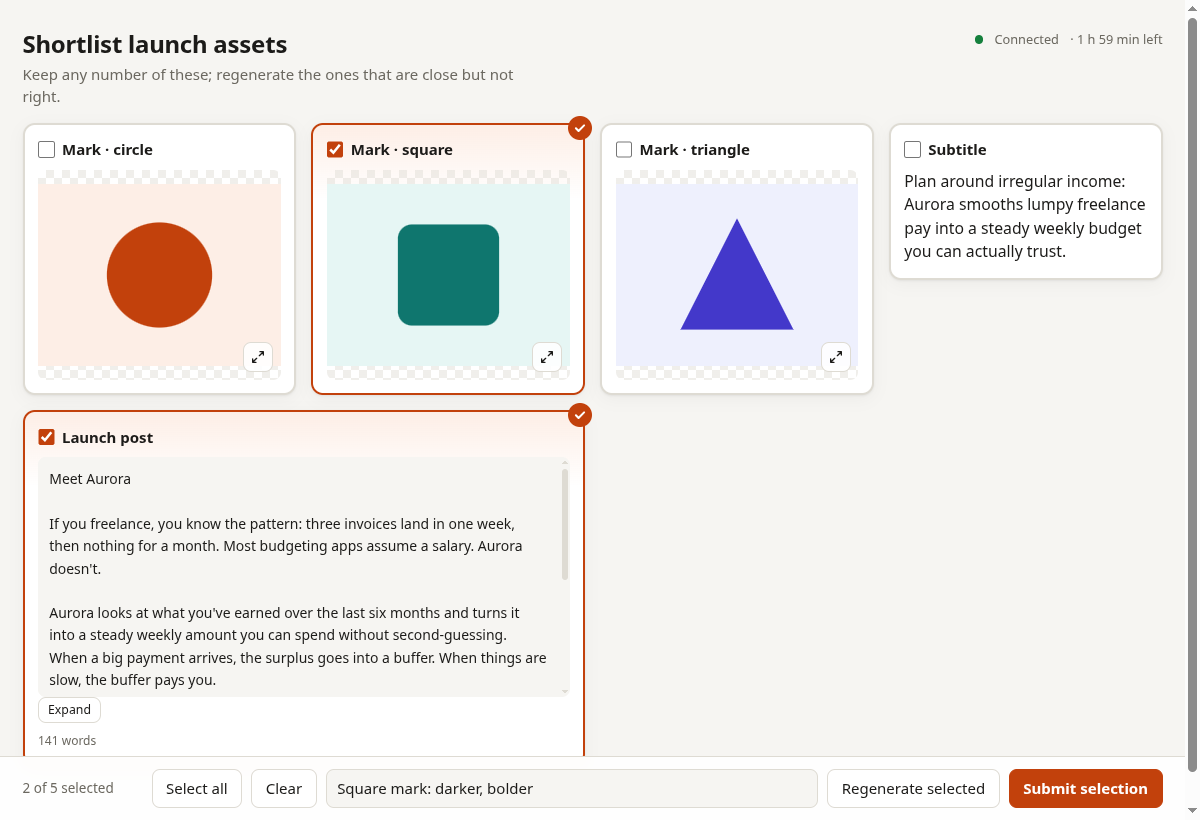
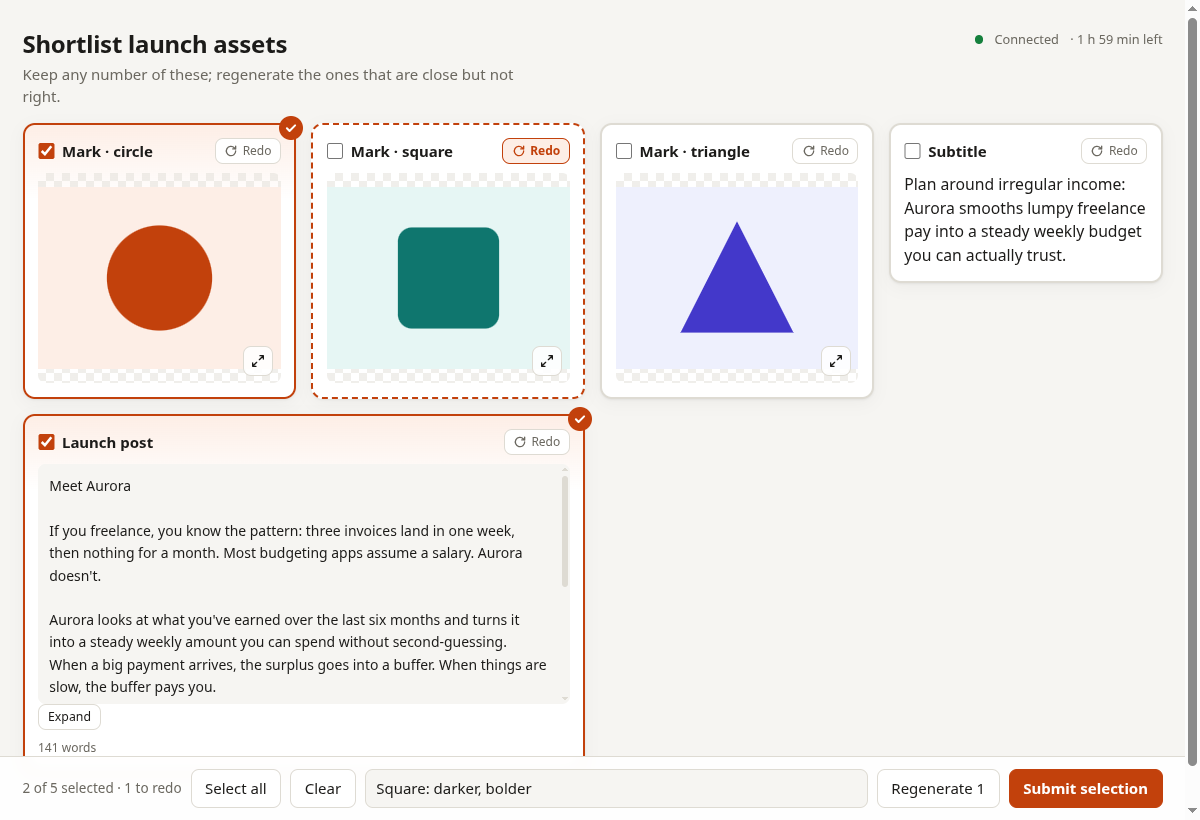
ui: per-card Redo toggle, separate from the winner tick
One set of ticks used to mean both "winner" (submit) and "redo this"
(regenerate). Each card now has its own Redo toggle; Regenerate sends only
those ids, and winners stay ticked through the round. UI-only: the event
schema and agent protocol are unchanged (chosen via decision-picker over a
redo_ids protocol change, which saved no round trip).

Also ignores the local .decisions.log.

diff --git a/skills/claude-select/scripts/ui.html b/skills/claude-select/scripts/ui.html
@@ -52,6 +52,9 @@
   .card label { display: flex; align-items: center; gap: .5rem; font-weight: 600; cursor: pointer; flex: 1; min-width: 0; }
   .card label span { overflow-wrap: anywhere; }
   .card input { accent-color: var(--accent); width: 1.1rem; height: 1.1rem; margin: 0; flex: none; }
+  .again { display: flex; align-items: center; gap: .3rem; padding: .2rem .55rem; font-size: .8rem; color: var(--muted); }
+  .again[aria-pressed="true"] { color: var(--accent); border-color: var(--accent); background: var(--accent-soft); font-weight: 600; }
+  .card.redo { border-style: dashed; border-color: var(--accent); }
   .badge { font-size: .72rem; color: var(--muted); border: 1px solid var(--line); border-radius: 99px; padding: 0 .45rem; }
   .check { position: absolute; top: -.6rem; right: -.6rem; width: 1.6rem; height: 1.6rem; border-radius: 50%;
            background: var(--accent); color: var(--on-accent); display: none; place-items: center; }
@@ -121,7 +124,7 @@
     <button id="clear" hidden>Clear</button>
     <input id="feedback" type="text" placeholder="Optional note for the agent"
            aria-label="Note for the agent: what to change, or why you picked it" maxlength="2000">
-    <button id="regen">Regenerate selected</button>
+    <button id="regen">Regenerate</button>
     <button id="submit" class="primary" title="Ctrl+Enter" aria-keyshortcuts="Control+Enter Meta+Enter">Submit selection</button>
   </div>
 </footer>
@@ -131,11 +134,13 @@
 const token = new URLSearchParams(location.search).get('t') || '';
 const $ = id => document.getElementById(id);
 let S = null;            // last session snapshot from the server
-let selected = new Set();
+let selected = new Set();  // winners, sent on submit
+let redo = new Set();      // marked for another version, sent on regenerate
 let sending = false;     // an event is in flight (possibly retrying)
 let online = true;
 let error = '';          // last refusal from the server, shown until the next send
 const ICON_CHECK = '<svg width="14" height="14" viewBox="0 0 24 24" stroke-width="3.5"><path d="M5 12.5l4.5 4.5L19 7.5"/></svg>';
+const ICON_REDO = '<svg width="14" height="14" viewBox="0 0 24 24" stroke-width="2.25"><path d="M20 12a8 8 0 1 1-2.35-5.65L20 8.5M20 3.5v5h-5"/></svg>';
 const ICON_ZOOM = '<svg width="16" height="16" viewBox="0 0 24 24" stroke-width="2"><path d="M15 4h5v5M9 20H4v-5M20 4l-6 6M4 20l6-6"/></svg>';
 
 async function api(path, body) {
@@ -150,7 +155,10 @@ async function api(path, body) {
 }
 
 const storeKey = () => 'claude-select:' + S.session_id;
-function saveSel() { localStorage.setItem(storeKey(), JSON.stringify([...selected])); }
+function saveSel() {
+  localStorage.setItem(storeKey(), JSON.stringify([...selected]));
+  localStorage.setItem(storeKey() + ':redo', JSON.stringify([...redo]));
+}
 
 function setOnline(ok) {
   online = ok;
@@ -176,9 +184,13 @@ function card(it, prevRev) {
   });
   const md = it.metadata || {};
   const title = label(it);
+  // Redo is its own toggle, so "keep this" and "make another version" never share one tick.
+  const again = el('button', { className: 'again', type: 'button', ariaLabel: `Redo ${title}`, ariaPressed: 'false',
+                               title: 'Ask the agent for a new version of this one', innerHTML: ICON_REDO + 'Redo' });
+  again.addEventListener('click', () => { redo.has(it.id) ? redo.delete(it.id) : redo.add(it.id); saveSel(); sync(); });
   const head = el('div', { className: 'head' },
     el('label', { htmlFor: input.id }, input, el('span', { textContent: title })),
-    it.revision > 1 ? el('span', { className: 'badge', textContent: 'v' + it.revision, title: 'Regenerated' }) : null);
+    it.revision > 1 ? el('span', { className: 'badge', textContent: 'v' + it.revision, title: 'Regenerated' }) : null, again);
 
   let body;
   if (it.type === 'image') {
@@ -222,9 +234,13 @@ function render(s) {
   const prev = S ? Object.fromEntries(S.items.map(i => [i.id, i.revision])) : {};
   const first = !S || S.session_id !== s.session_id;
   S = s;
-  if (first) selected = new Set(JSON.parse(localStorage.getItem(storeKey()) || '[]'));
+  if (first) {
+    selected = new Set(JSON.parse(localStorage.getItem(storeKey()) || '[]'));
+    redo = new Set(JSON.parse(localStorage.getItem(storeKey() + ':redo') || '[]'));
+  }
   const ids = new Set(s.items.map(i => i.id));
   selected = new Set([...selected].filter(id => ids.has(id)));
+  redo = new Set([...redo].filter(id => ids.has(id)));
   if (s.mode === 'single' && selected.size > 1) selected = new Set([...selected].slice(0, 1));
   document.title = s.title + ' · claude-select';
   $('title').textContent = s.title;
@@ -240,17 +256,21 @@ function sync() {
     c.classList.toggle('regen', pending.has(c.dataset.id));
     c.ariaBusy = String(pending.has(c.dataset.id));
     c.querySelector('input').checked = selected.has(c.dataset.id);
+    c.classList.toggle('redo', redo.has(c.dataset.id));
+    c.querySelector('.again').ariaPressed = String(redo.has(c.dataset.id));
   }
   const open = S.status === 'open' && !pending.size && !sending;
   const n = selected.size;
-  setText($('count'), S.mode === 'single'
+  setText($('count'), (S.mode === 'single'
     ? (n ? '1 selected' : 'Pick one option')
-    : `${n} of ${S.items.length} selected`);
+    : `${n} of ${S.items.length} selected`) + (redo.size ? ` · ${redo.size} to redo` : ''));
+  setText($('regen'), redo.size ? `Regenerate ${redo.size}` : 'Regenerate');
+  $('regen').title = redo.size ? '' : 'Mark cards with Redo first';
   $('submit').disabled = !open || (S.mode === 'single' && n !== 1);
-  $('regen').disabled = !open || !n;
+  $('regen').disabled = !open || !redo.size;
   $('all').disabled = !open || n === S.items.length;
   $('clear').disabled = !open || !n;
-  for (const i of document.querySelectorAll('.card input')) i.disabled = !open;
+  for (const i of document.querySelectorAll('.card input, .card .again')) i.disabled = !open;
   const r = S.remaining_s;
   const late = S.status === 'open' && r < 300;
   const picked = S.items.filter(i => selected.has(i.id)).map(label).join(', ');
@@ -269,7 +289,8 @@ function sync() {
 }
 
 async function send(action) {
-  const ev = { client_event_id: crypto.randomUUID(), action, selected_ids: [...selected],
+  const ev = { client_event_id: crypto.randomUUID(), action,
+               selected_ids: [...(action === 'regenerate' ? redo : selected)],
                feedback: $('feedback').value };
   sending = true; error = ''; sync();
   // Retry with the same client_event_id until the server answers; it drops duplicates.
@@ -278,7 +299,7 @@ async function send(action) {
       const r = await api('/api/event', ev);
       setOnline(true);
       S.status = r.status;
-      if (action === 'regenerate') S.pending = ev.selected_ids;
+      if (action === 'regenerate') { S.pending = ev.selected_ids; redo.clear(); saveSel(); }
       $('feedback').value = '';
       break;
     } catch (e) {

diff --git a/README.md b/README.md
@@ -12,14 +12,14 @@
 <picture>
   <source media="(prefers-color-scheme: dark)" srcset="docs/screenshot-dark.png">
   <source media="(prefers-color-scheme: light)" srcset="docs/screenshot-light.png">
-  <img alt="The selection page: three logo images, a subtitle and a long launch post as cards; the square logo and the post are ticked, with a feedback note and Regenerate selected / Submit selection buttons in the bottom bar." src="docs/screenshot-light.png">
+  <img alt="The selection page: three logo images, a subtitle and a long launch post as cards; the circle logo and the post are ticked as winners, the square logo is marked Redo, with a feedback note and Regenerate 1 / Submit selection buttons in the bottom bar." src="docs/screenshot-light.png">
 </picture>
 
 Ask an agent for four logo ideas or three draft intros and you usually get them
 pasted into the chat. Comparing images there is awkward, and saying which ones
 to redo is fiddly. claude-select gives the options a proper page on
-`localhost`. You tick one winner or several, add a note, and submit or send
-specific cards back for another try. The agent gets your choice back as
+`localhost`. You tick one winner or several, mark any card Redo to send it back for
+another try, add a note, and submit. The agent gets your choice back as
 structured JSON and carries on.
 
 ## Highlights
@@ -28,8 +28,9 @@ structured JSON and carries on.
   a full-size view, snippets up to 500 characters, and long drafts that scroll and expand.
 - **Single-winner or multi-winner** modes (radio or checkbox, 0..N), with
   Select all and Clear.
-- **Regenerate selected**: the agent receives each item's original prompt and
-  parameters, re-runs only those, and the cards update in place with a `v2` badge.
+- **Redo per card**, separate from your winners: the agent receives each marked
+  item's original prompt and parameters, re-runs only those, and the cards update
+  in place with a `v2` badge.
 - **Hard to break**: port fallback, retry after a dropped connection, empty-submit
   confirmation, session timeout, crash recovery, and the server shuts itself down when idle.
 - **Zero dependencies**: one Python file (standard library, ≥ 3.10) and one HTML
@@ -127,8 +128,8 @@ The agent generates the options, opens the page, and replies with one line:
 Options are ready: http://127.0.0.1:8765/?t=hks4JDNbYo1JQzrnoDZHXAvu
 ```
 
-Pick, optionally add a note, then click **Submit selection** or **Regenerate
-selected**. The agent is waiting in the background and continues on its own.
+Tick winners and click **Submit selection**, or mark cards **Redo** and click
+**Regenerate**. Either way you can add a note. The agent is waiting in the background and continues on its own.
 
 To try the page without an agent, drive it by hand:
 
@@ -202,7 +203,7 @@ Using [`examples/multi-mixed.json`](examples/multi-mixed.json): three SVG
 logos, a subtitle and a 141-word post.
 
 1. `P start examples/multi-mixed.json`, then `P poll`.
-2. Tick **Mark · square**, type *darker, bolder*, and click **Regenerate selected**.
+2. Click **Redo** on **Mark · square**, type *darker, bolder*, and click **Regenerate 1**.
    The card greys out with "Regenerating…" and every action locks.
 3. `poll` returns the original task for that card:
    ```json
@@ -213,7 +214,8 @@ logos, a subtitle and a 141-word post.
    ```
 4. The agent re-runs it and pushes the result under the **same id**:
    `P update examples/regenerated-logo-b.json`, then `P poll` again.
-5. Within 2 s the card shows the new image with a `v2` badge, still selected.
+5. Within 2 s the card shows the new image with a `v2` badge. Winners you ticked
+   before regenerating stay ticked.
 6. Tick the others you want and submit. `poll` returns every chosen item in full.
 
 If you submit in multi mode with nothing ticked, the page asks you to confirm.

diff --git a/CHANGELOG.md b/CHANGELOG.md
@@ -8,6 +8,9 @@ All notable changes to this project are documented here. The format follows
 
 ### Changed
 
+- Each card has its own **Redo** toggle, separate from the winner tick.
+  **Regenerate** sends only the Redo cards, and winners stay ticked through
+  the round. The agent protocol is unchanged.
 - Clicking an image now selects its card, like the rest of the card; full-size view
   moved to a corner button.
 - Status messages (sending, sent, regenerating, errors) appear in the bottom bar next
